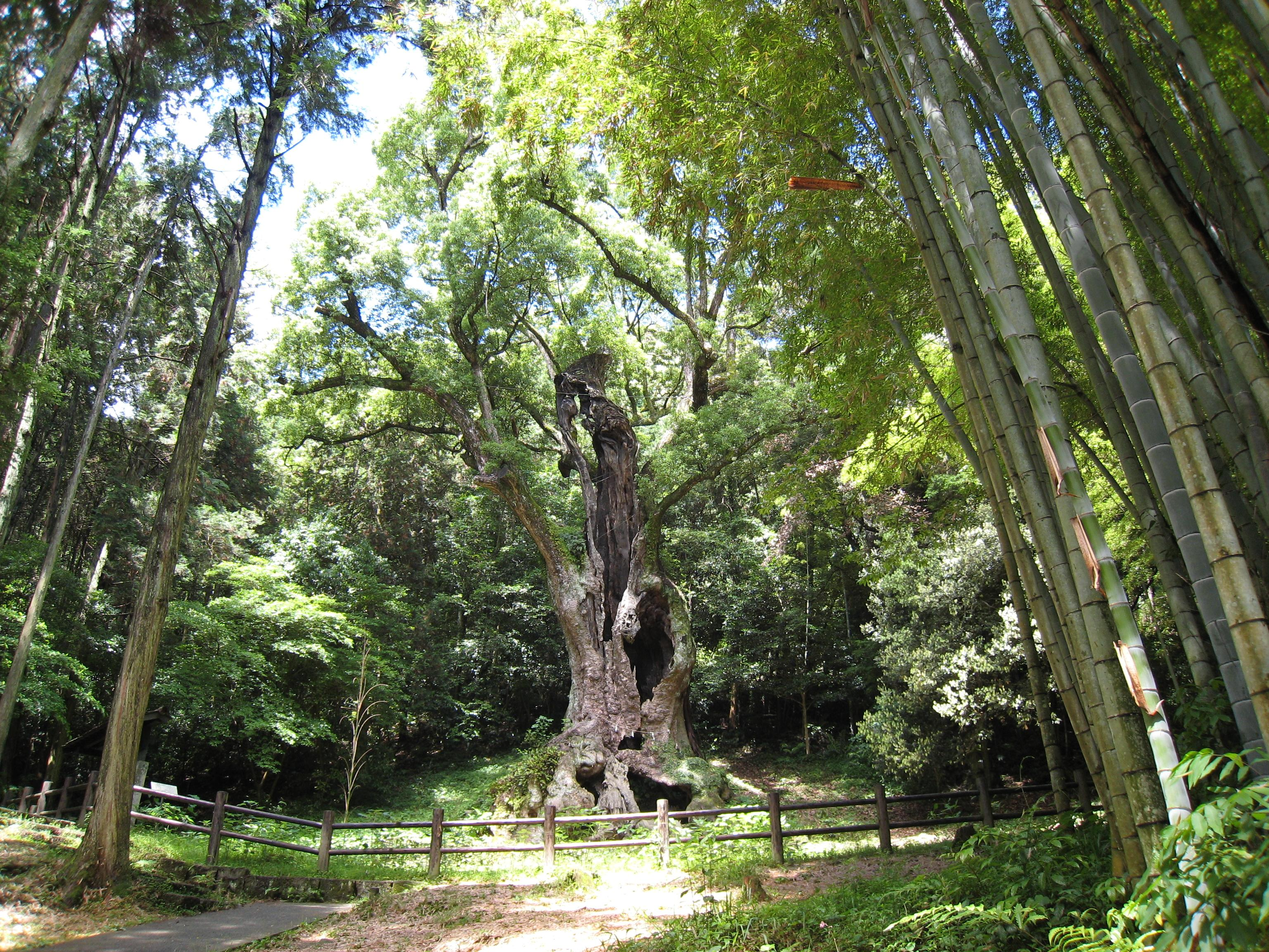
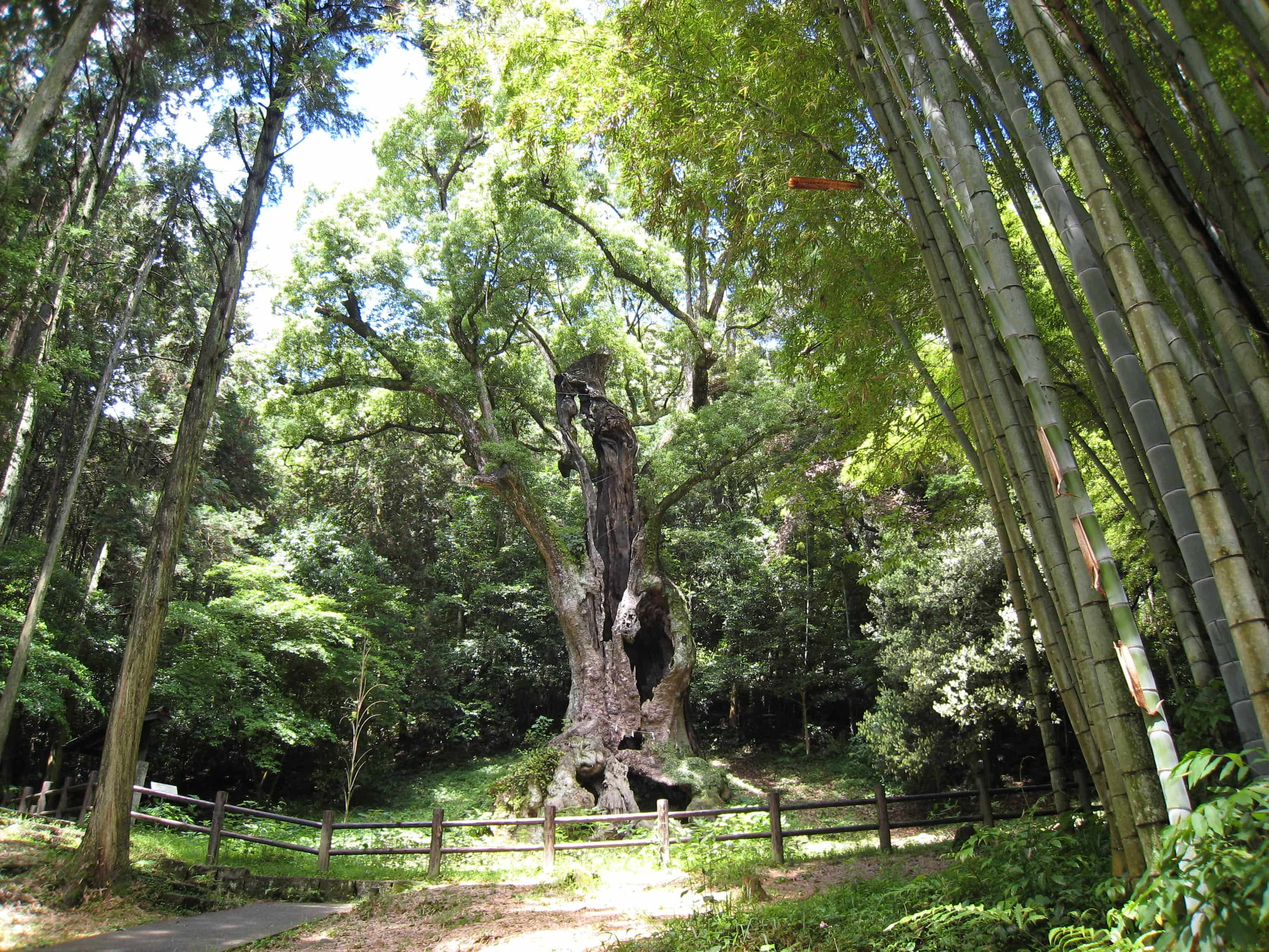
mini

diff --git a/index.html b/index.html
@@ -20,8 +20,9 @@
     <article>
         <section>
             <ul>
-                <li><a href="Y.html">インレー湖ミャンマー</a></li><li><a href="shodoshima.html">小豆島</a></li>
+                <li><a href="Y.html">インレー湖ミャンマー</a></li>
                 <li><a href="saga.html">佐賀県</a></li>
+                <li><a href="shodoshima.html">小豆島</a></li>
                 <li><a href="hyogo.html">兵庫県</a></li>
                 <li><a href="yuki.html">岡山</a></li>
                 <li><a href="ryu.html">岡山２</a></li>       
